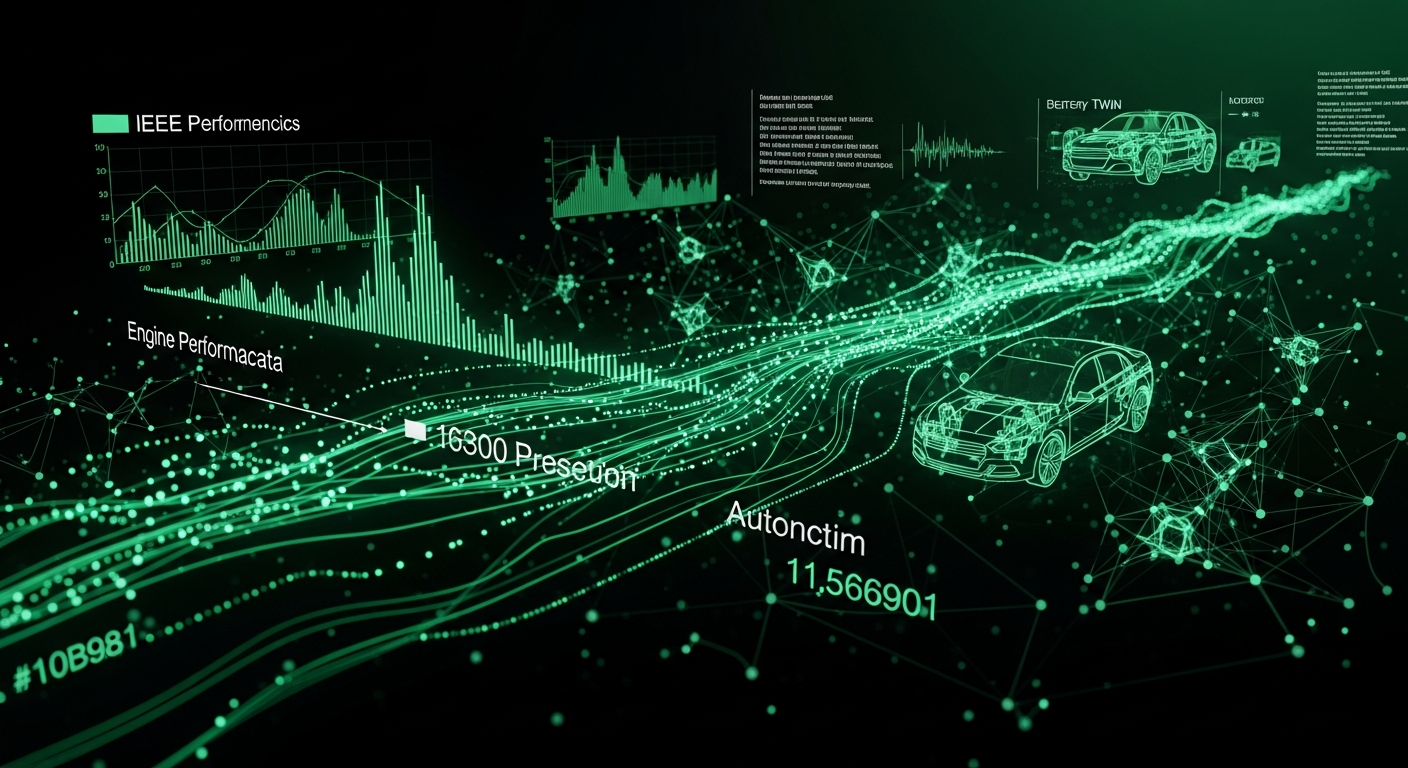
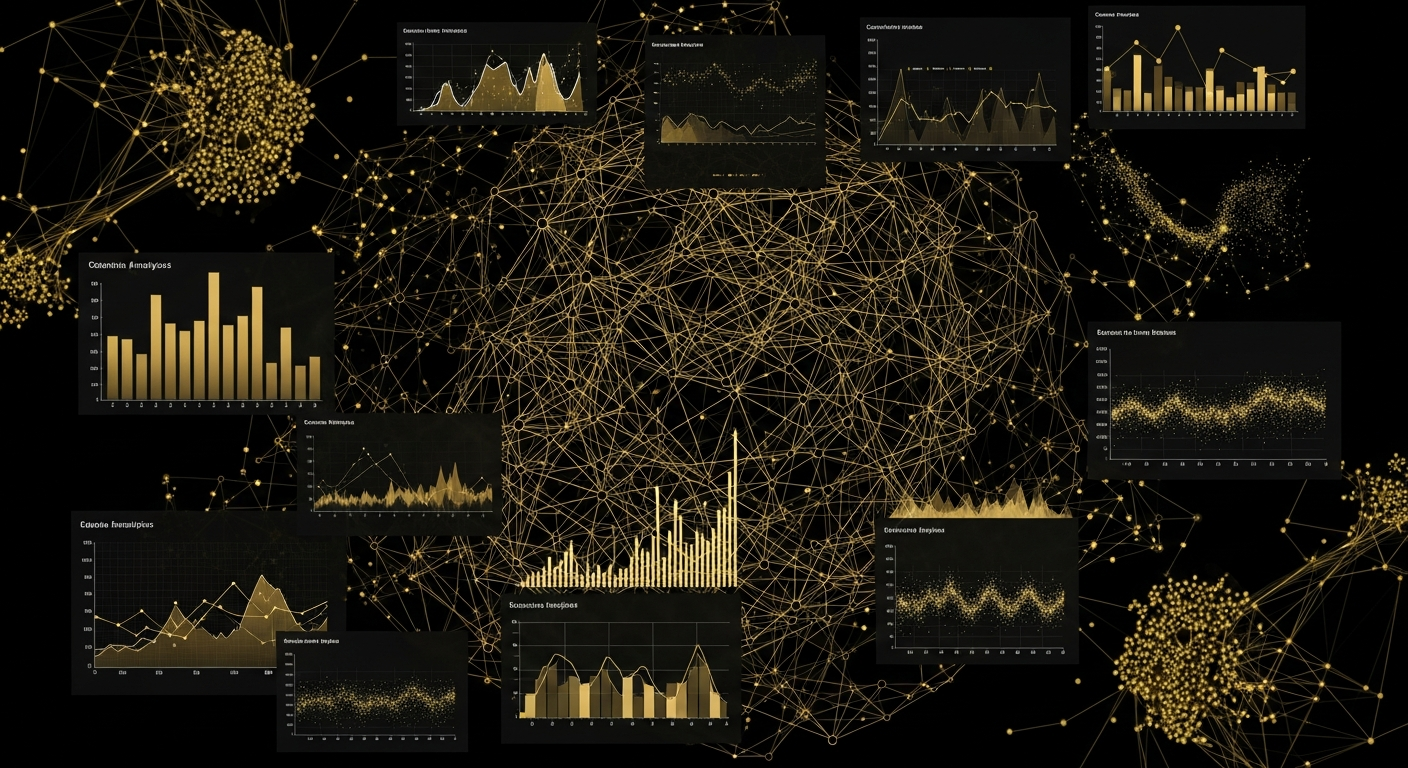
Update project card images to match brand yellow colors
Replaces green project card images with new yellow-themed versions and updates image import paths in FeaturedWork.tsx and Projects.tsx.

Replit-Commit-Author: Agent
Replit-Commit-Session-Id: d8c6bad7-2be5-496a-9642-3f6b9c19e15a
Replit-Commit-Checkpoint-Type: full_checkpoint
Replit-Commit-Event-Id: e247d64c-490f-43a2-90d8-05c211ae8251
Replit-Commit-Screenshot-Url: https://storage.googleapis.com/screenshot-production-us-central1/e5b9d7cc-d3f2-4a85-baf0-6e9d05c4e320/d8c6bad7-2be5-496a-9642-3f6b9c19e15a/2cVRCS2
Replit-Helium-Checkpoint-Created: true

diff --git a/client/src/pages/Projects.tsx b/client/src/pages/Projects.tsx
@@ -4,9 +4,9 @@ import ProjectCard, { type Project } from "@/components/ProjectCard";
 import ProjectFilter from "@/components/ProjectFilter";
 import Footer from "@/components/Footer";
 
-import voiceAgentImage from '@assets/generated_images/ai_voice_agent_visualization.png';
-import nonprofitImage from '@assets/generated_images/nonprofit_website_redesign_visual.png';
-import nutriscanImage from '@assets/generated_images/nutriscan_ai_health_app_visual.png';
+import voiceAgentImage from '@assets/generated_images/ai_voice_agent_yellow_waves.png';
+import nonprofitImage from '@assets/generated_images/nonprofit_website_redesign_mockup.png';
+import nutriscanImage from '@assets/generated_images/nutriscan_multi-agent_ai_network.png';
 import rocheImage from '@assets/generated_images/roche_medical_device_dashboard.png';
 import veevaImage from '@assets/generated_images/veeva_qa_automation_visual.png';
 import researchImage from '@assets/generated_images/published_research_obd_visual.png';

diff --git a/client/src/components/FeaturedWork.tsx b/client/src/components/FeaturedWork.tsx
@@ -5,9 +5,9 @@ import { ArrowRight } from "lucide-react";
 import ProjectCard, { type Project } from "./ProjectCard";
 import SectionDivider from "./SectionDivider";
 
-import voiceAgentImage from '@assets/generated_images/ai_voice_agent_visualization.png';
-import nonprofitImage from '@assets/generated_images/nonprofit_website_redesign_visual.png';
-import nutriscanImage from '@assets/generated_images/nutriscan_ai_health_app_visual.png';
+import voiceAgentImage from '@assets/generated_images/ai_voice_agent_yellow_waves.png';
+import nonprofitImage from '@assets/generated_images/nonprofit_website_redesign_mockup.png';
+import nutriscanImage from '@assets/generated_images/nutriscan_multi-agent_ai_network.png';
 
 const featuredProjects: Project[] = [
   {
